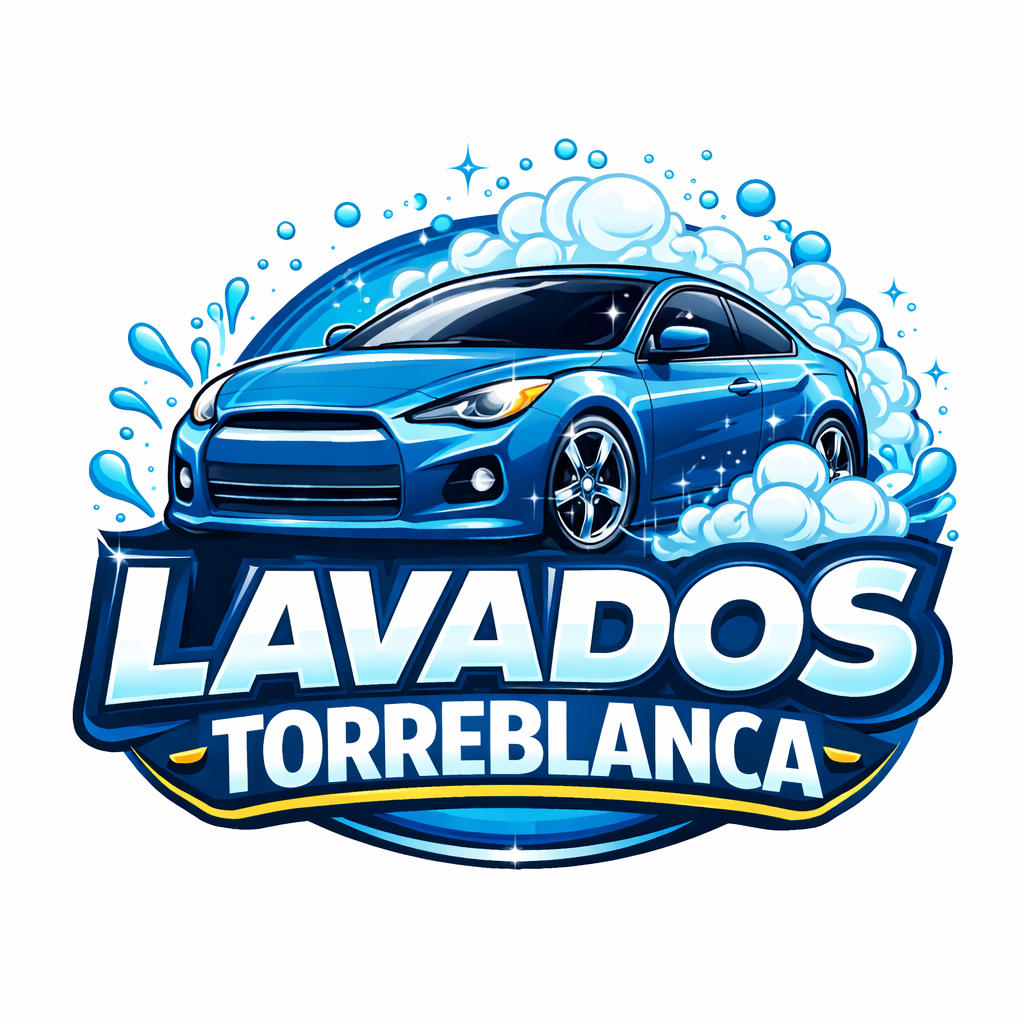
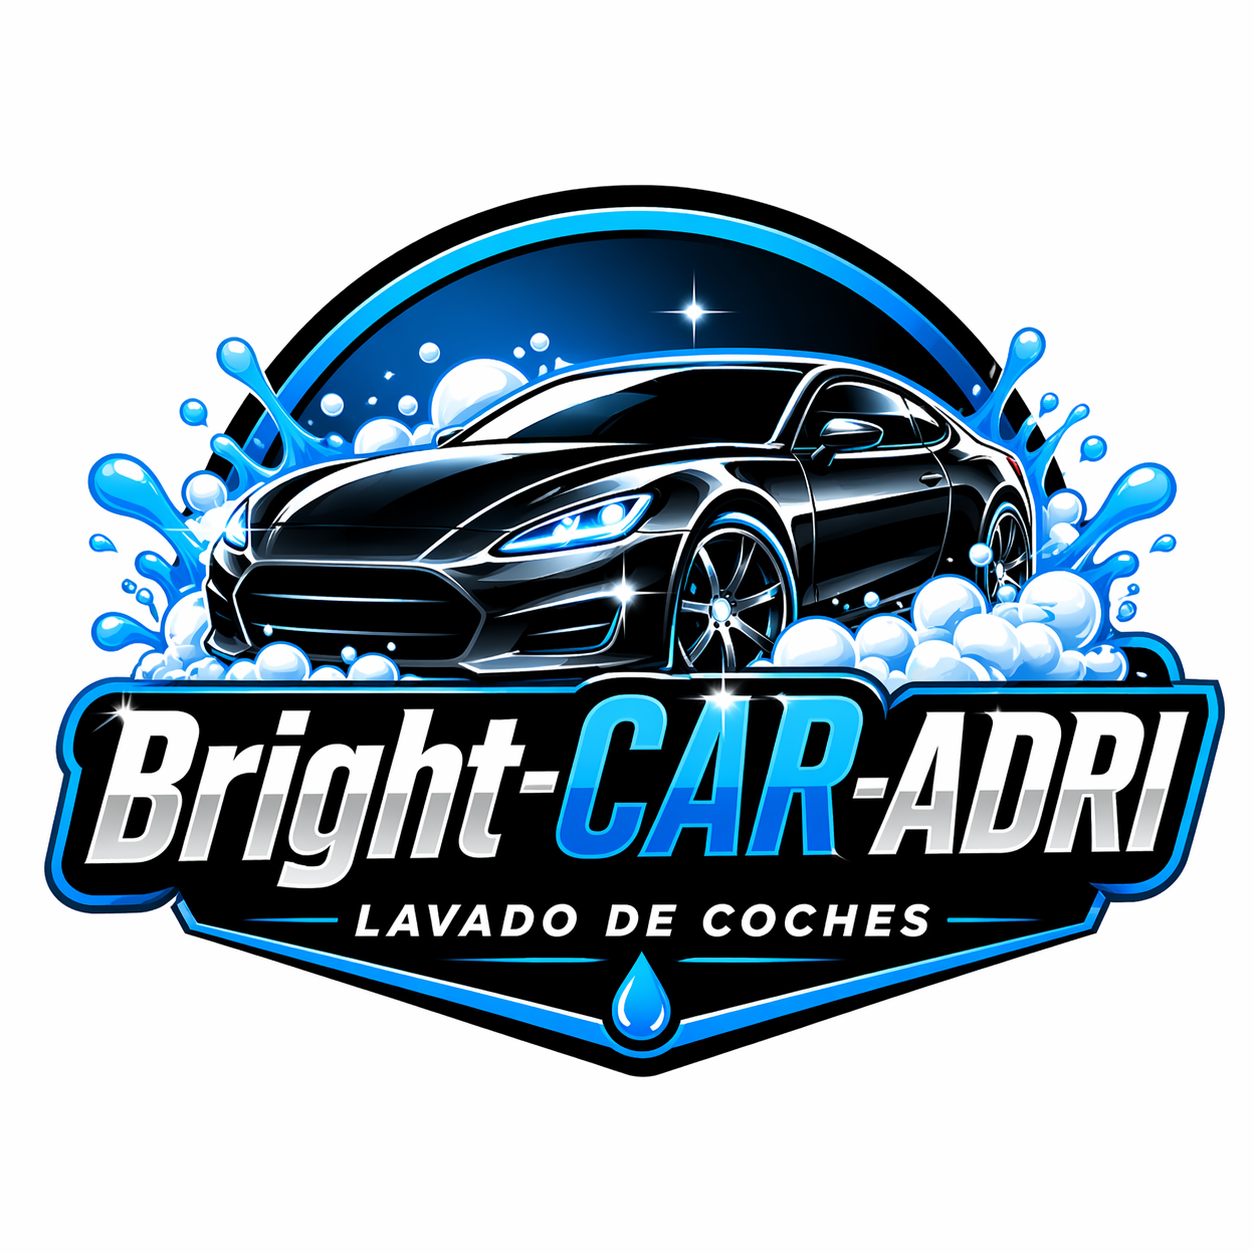
Primer commit

diff --git a/lib/config.ts b/lib/config.ts
@@ -6,14 +6,14 @@ export const siteConfig = {
   // -------------------------------------------------------------------------
   // INFORMACIÓN BÁSICA DEL LAVADERO
   // -------------------------------------------------------------------------
-  name: "Lavados Torreblanca",
+  name: "Bright-CAR-ADRI",
   shortName: "LT", // Se muestra en el logo (máximo 2-3 caracteres)
   tagline: "Lavadero de coches especializado",
-  description: "Lavadero de coches en Cártama Estación. Tu coche limpio y protegido en las mejores manos.",
+  description: "Lavadero de coches a mano en Ronda. Tu coche limpio y protegido en las mejores manos.",
   hero: {
     title: "Expertos en lavado de",
     highlight: "vehículos",
-    description: "Servicio técnico profesional para el lavado de vehículos con la más alta calidad.",
+    description: "Servicio técnico profesional para el lavado a mano de vehículos con la más alta calidad.",
     alt: "Lavadero de coches profesional en acción",
   },
 
@@ -22,26 +22,26 @@ export const siteConfig = {
   // -------------------------------------------------------------------------
   contact: {
     text: "Ubicación del lavadero", // Texto que se muestra en la sección de contacto
-    phone: "[phone redacted]",
+    phone: "[phone redacted]",
     email: "[email redacted]",
-    address: "Avenida de Andalucia 55, junto a Gasolinera , 29580 Estación de Cártama, Málaga",
+    address: "C. Montes, 29400 Ronda, Málaga, España",
     // Coordenadas para Google Maps (opcional)
     // Para obtenerlas: busca tu dirección en Google Maps, haz clic derecho y copia las coordenadas
     mapCoordinates: {
-      lat: 36.736688429683014,
-      lng: -4.606864380255691
+      lat: 36.74465694973382,
+      lng: -5.159095988229407
   , 
   },
     // URL de Google Maps (si prefieres usar un enlace directo)
-    mapUrl: "https://maps.app.goo.gl/JsbJqdyjcCtVGdFp9",
+    mapUrl: "https://maps.app.goo.gl/r6arRRkW2qGVSRY76",
   },
 
   // -------------------------------------------------------------------------
   // HORARIO DE ATENCIÓN
   // -------------------------------------------------------------------------
   schedule: {
-    weekdays: "Lun - Vie: 9:30 - 07:00",
-    saturday: "Sáb: Cerrado",
+    weekdays: "Lun - Vie: 9:00 - 14:00, 14:00 - 20:00",
+    saturday: "Sáb: 9:00 - 14:00",
     sunday: "Dom: Cerrado",
   },
 
@@ -53,7 +53,7 @@ export const siteConfig = {
     facebook: "https://facebook.com/lavadero",
  //   youtube: "https://youtube.com/@lavadero",
  //   tiktok: "", // Ejemplo: "https://tiktok.com/@albertomotos"
- //   whatsapp: "[phone redacted]", // Solo números, sin + ni espacios
+    whatsapp: "[phone redacted]", // Solo números, sin + ni espacios
   },
 
   // -------------------------------------------------------------------------
@@ -81,12 +81,12 @@ export const siteConfig = {
     foundedYear: "2010",
     title: "El mejor servicio de lavado de coches desde 2010",
     description: [
-      "En nuestro lavadero contamos con limpieza integral, tratamientos ecológicos y acabados profesionales para que tu coche luzca como nuevo.",
+      "En nuestro lavadero contamos con lavado a mano integral, tratamientos ecológicos y acabados profesionales para que tu coche luzca como nuevo.",
     ],
     features: [
-      "Especialistas en lavado exterior e interior",
-      "Tratamientos cerámicos y encerados profesionales",
-      "Limpieza de tapicerías y desodorización profunda",
+      "Especialistas en lavado a mano exterior e interior",
+      "Tratamientos cerámicos y encerados profesionales a mano",
+      "Limpieza a mano de tapicerías y desodorización profunda",
       "Atención cercana y servicios personalizados",
     ],
   },
@@ -95,39 +95,39 @@ export const siteConfig = {
   // SERVICIOS (iconos disponibles: Wrench, Cog, Shield, Zap, Settings, RefreshCw)
   // -------------------------------------------------------------------------
   service: {
-    description: "Ofrecemos una amplia gama de servicios para mantener tu vehículo impecable, desde lavados básicos hasta tratamientos especializados.",
+    description: "Ofrecemos una amplia gama de servicios de lavado a mano para mantener tu vehículo impecable, desde lavados básicos hasta tratamientos especializados.",
     object: "vehículo",
   },
   services: [
     {
       icon: "Wrench",
       title: "Lavado Exterior Premium",
-      description: "Limpieza a mano con productos profesionales y secado sin marcas para un acabado perfecto.",
+      description: "Lavado a mano con productos profesionales y secado sin marcas para un acabado perfecto.",
     },
     {
       icon: "Cog",
       title: "Lavado Interior",
-      description: "Aspirado, limpieza de tapicerías y detalles interiores para dejar tu coche listo y confortable.",
+      description: "Aspirado a mano, limpieza de tapicerías y detalles interiores para dejar tu coche listo y confortable.",
     },
     {
       icon: "Shield",
       title: "Pulido y Encerado",
-      description: "Pulido profesional y encerado para proteger la pintura y devolver el brillo a tu vehículo.",
+      description: "Pulido a mano profesional y encerado para proteger la pintura y devolver el brillo a tu vehículo.",
     },
     {
       icon: "Zap",
       title: "Tratamiento de Tapicerías",
-      description: "Limpieza profunda de tejidos y piel, eliminación de manchas y protección contra suciedad futura.",
+      description: "Limpieza profunda a mano de tejidos y piel, eliminación de manchas y protección contra suciedad futura.",
     },
     {
       icon: "Settings",
       title: "Descontaminación y Cristalizado",
-      description: "Eliminación de residuos, alquitrán y película ambiental para mantener la carrocería impecable.",
+      description: "Eliminación a mano de residuos, alquitrán y película ambiental para mantener la carrocería impecable.",
     },
     {
       icon: "RefreshCw",
       title: "Aspirado y Desodorización",
-      description: "Limpieza total del habitáculo y fragancia fresca para una experiencia agradable al volante.",
+      description: "Limpieza total a mano del habitáculo y fragancia fresca para una experiencia agradable al volante.",
     },
   ],
 
@@ -165,9 +165,9 @@ export const siteConfig = {
   // SEO (metadatos para buscadores)
   // -------------------------------------------------------------------------
   seo: {
-    title: "Lavados Torreblanca - Lavado de coches en Cártama Estación",
-    description: "Lavadero de coches profesional con lavado exterior e interior, pulido, encerado y tratamientos especializados.",
-    keywords: "lavadero coches, lavado coche Cártama, limpieza interior coche, pulido coche, encerado coche",
+    title: "Lavados Bright-CAR-ADRI - Lavado a mano de coches en Ronda",
+    description: "Lavadero de coches profesional con lavado a mano exterior e interior, pulido, encerado y tratamientos especializados.",
+    keywords: "lavadero coches, lavado coche a mano Ronda, limpieza interior coche, pulido coche, encerado coche",
   },
 }
 

diff --git a/app/page.tsx b/app/page.tsx
@@ -15,7 +15,7 @@ export default function Home() {
       <About />
       <Contact />
       <Footer />
-
+      <WhatsAppButton />
     </main>
   )
 }

diff --git a/components/contact.tsx b/components/contact.tsx
@@ -20,7 +20,7 @@ export function Contact() {
     {
       icon: EuroIcon,
       label: "Precio",
-      value: "Precios desde 35€, consulta sin compromiso", // Puedes personalizar esto o agregarlo a la configuración
+      value: "Precios desde 40€, consulta sin compromiso", // Puedes personalizar esto o agregarlo a la configuración
     },
     {
       icon: Clock,